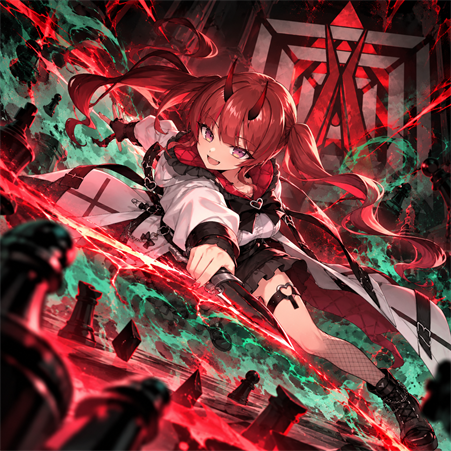
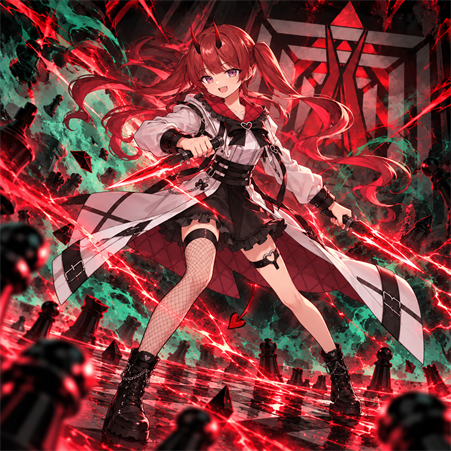
Update FCG title and card artwork
Rename title 9105 back to 「共犯」 and update the artwork for cards 179, 181, and 191.

diff --git a/gamedata/cache/fcg_titles.php b/gamedata/cache/fcg_titles.php
@@ -5,7 +5,7 @@ $fcg_title_defs = array(
     9102 => array('因果断', 'thorns', '苦味剂截断重创并反噬攻击者。每45次行动补充一层。'),
     9103 => array('盲眼荷官', 'evade', '每30次行动准备一次哑弹：危险攻击只造成1点伤害，反击必定暴击。'),
     9104 => array('记忆之链', 'chain', '持有至多三张微缩记忆卡，可平时使用或装填，在下一场战斗开幕自动倾泻。'),
-    9105 => array('阿卡夏的共犯', 'imprint', '两次器物拓印权限；记录承受过的重击，在下一次主动交战覆唱。'),
+    9105 => array('「共犯」', 'imprint', '两次器物拓印权限；记录承受过的重击，在下一次主动交战覆唱。'),
     9106 => array('具现的暗影', 'mimic', '拟态种火独立追击，并以自身消散代替一次战斗死亡；40次行动后重构。'),
     9111 => array('✧霓虹失眠✧', '', '让名字流过霓虹。纯外观，无战斗效果。'),
     9112 => array('★星屑过载★', '', '让名字闪耀星屑。纯外观，无战斗效果。'),
